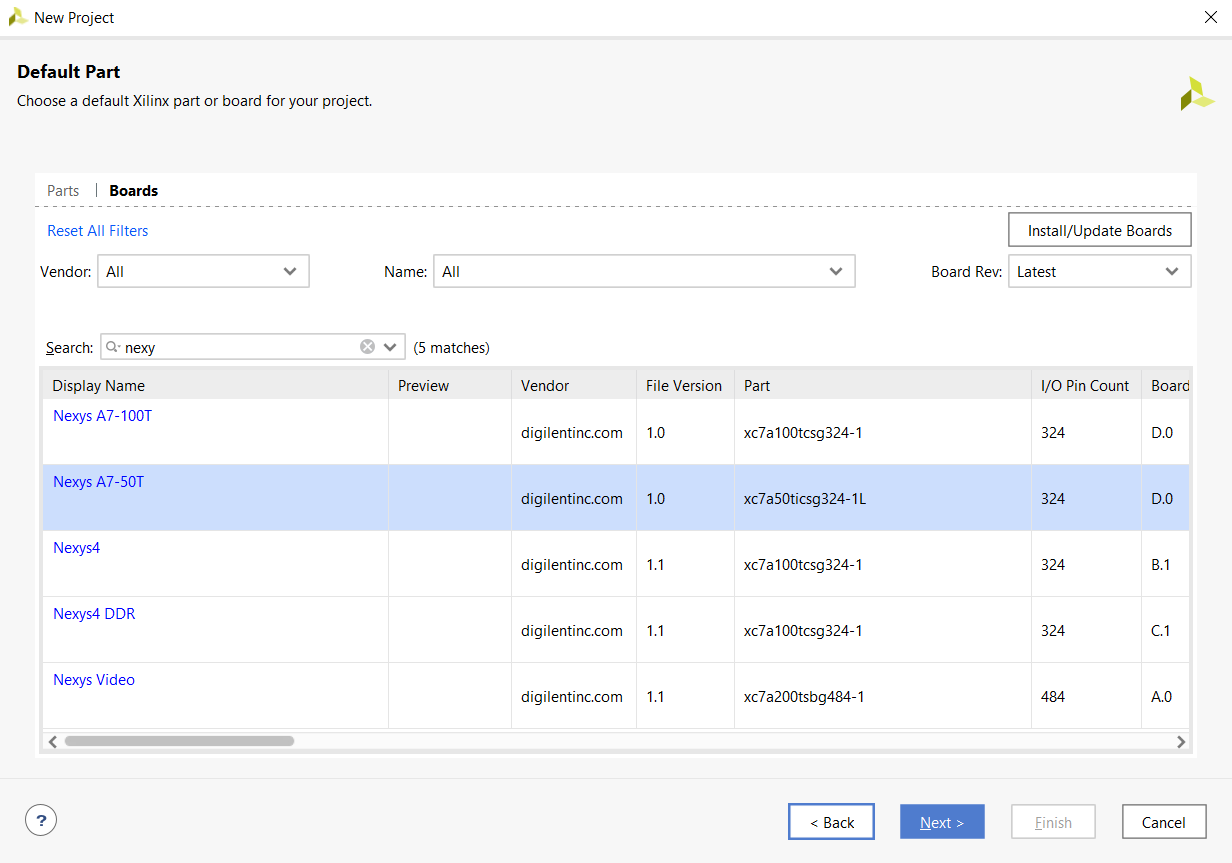
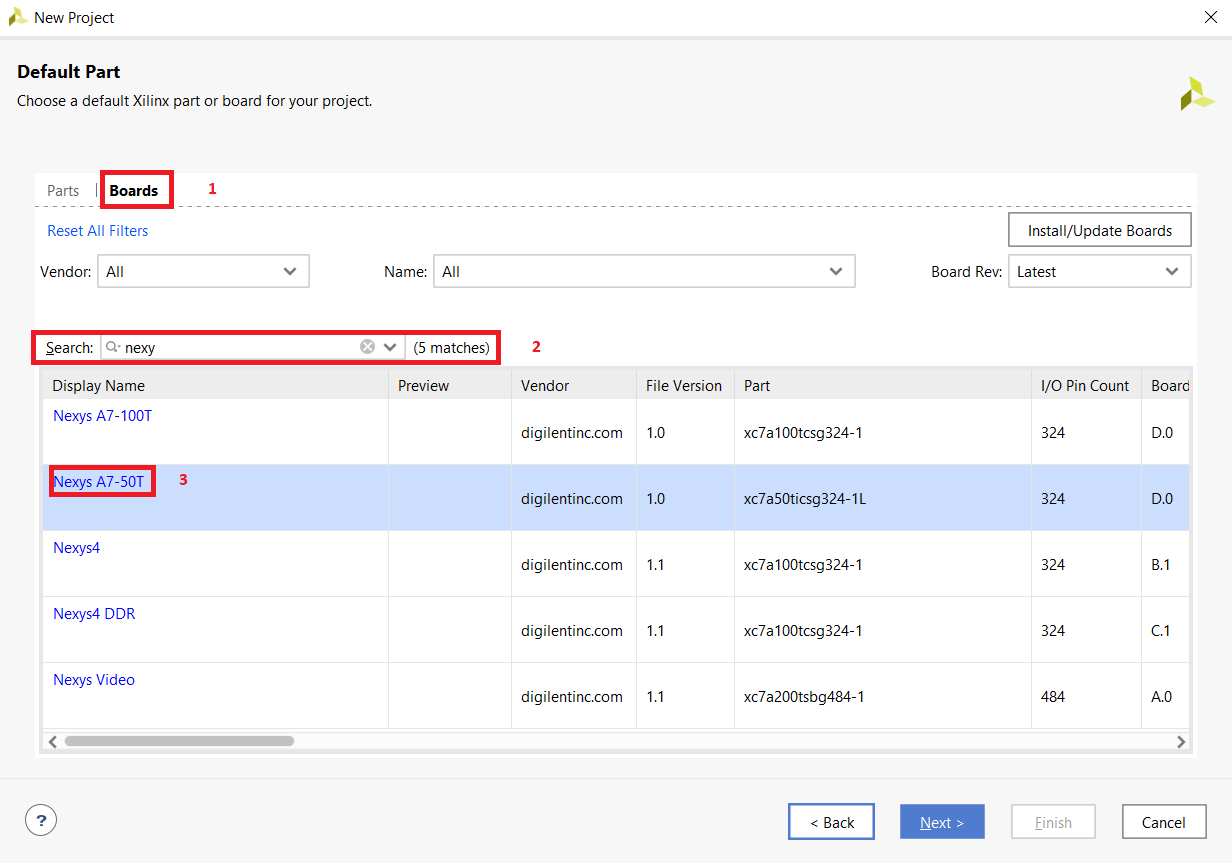
uprava

Changed region(s): [[0.0, 0.3615, 0.4318, 0.4218], [0.0308, 0.5122, 0.1542, 0.6025], [0.0617, 0.1808, 0.1542, 0.241]]

diff --git a/Labs/03-vivado/README.md b/Labs/03-vivado/README.md
@@ -87,5 +87,7 @@ end architecture Behavioral;
 ## Druhá část cvičení - návod na Vivado
 ### Založení projektu
 Po otevření programu Vivado zadáme "Create new project". Vyskočí nám nové okno, kde klikneme na tlačítko "next". Okno nám poskočí na další stránku, kde vyplníme název projektu, popřípadě změníme místo uložení. Dále budeme klikat na "next", dokud se nám nezobrazí okno s výběrem desky. Viz. obrázek níže.
-![Deska](./images/deska.PNG) 
+Postupujeme přesně jako na obrátku. Nejříve si vybereme záložku "boards" a v pole pro vyhledávání napíšešme "Nexys" vě výběru potom volíme Nexys A7-50T a dáme next. Na další straně už klikneme na tlačítko "finish", pro vytvoření projektu.
+![Deska](./images/deska.PNG)</br>
+
 
